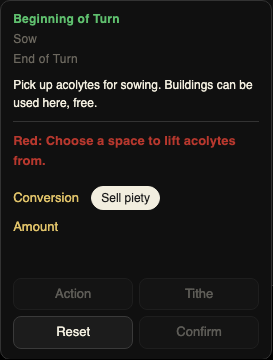
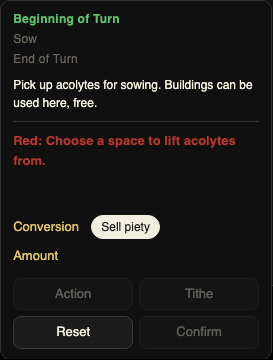
Keep relocation prompts visible after selection

diff --git a/tools/ui_debug/play_view_turn.js b/tools/ui_debug/play_view_turn.js
@@ -541,7 +541,9 @@
     var relocation = nextField === 'selected_position';
     // A relocation is a committed-step question too. Its server-written prompt belongs in the
     // grown prompt row, not a fixed-height answer row where it would escape into the controls.
-    var stepPrompt = activation || relocation;
+    var completedRelocation = live.length === 1 && live[0].kind === 'relocation'
+      && conversionChosen.length === (live[0].answers || []).length;
+    var stepPrompt = activation || relocation || completedRelocation;
     var relocationTargets = relocation ? offeredTurnStepValues(conversionChosen.length, live) : [];
     var piety = pietyIndex !== -1 && conversionChosen.length >= pietyIndex;
     var resource = amountIndex !== -1 && conversionChosen.length >= amountIndex;

diff --git a/tools/play_server.py b/tools/play_server.py
@@ -1767,25 +1767,31 @@ def _attach_turn_action_preview_effects(
                         break
         else:
             later_steps = steps[fee_index + 1 :]
-            attached = False
-            for step in reversed(later_steps):
-                if step["kind"] in {
-                    "resolution",
-                    "hire",
-                    "resource",
-                    "combination",
-                    "building",
-                }:
-                    step["resource_delta"] = resource_delta
-                    attached = True
-                    break
-            if not attached:
-                fee_step = steps[fee_index]
-                existing = fee_step.get("resource_delta", {})
-                fee_step["resource_delta"] = {
-                    resource: int(existing.get(resource, 0)) + int(resource_delta.get(resource, 0))
-                    for resource in COMBINATION_STOCKS
-                }
+            if not any(
+                "resource_delta" in step and step["kind"] != "ordination"
+                for step in later_steps
+            ):
+                attached = False
+                for step in reversed(later_steps):
+                    if step["kind"] in {
+                        "resolution",
+                        "hire",
+                        "resource",
+                        "combination",
+                        "building",
+                    }:
+                        step["resource_delta"] = resource_delta
+                        attached = True
+                        break
+                if not attached:
+                    fee_step = steps[fee_index]
+                    existing = fee_step.get("resource_delta", {})
+                    fee_step["resource_delta"] = {
+                        resource: (
+                            int(existing.get(resource, 0)) + int(resource_delta.get(resource, 0))
+                        )
+                        for resource in COMBINATION_STOCKS
+                    }
     building_id = effects.get("building_constructed")
     if building_id is not None:
         for step in steps:

diff --git a/tests/test_play_server.py b/tests/test_play_server.py
@@ -5190,6 +5190,46 @@ def test_minority_fee_precedes_construct_payment_and_leaves_every_engine_cost_ac
     }
 
 
+def test_minority_taxation_preview_delta_is_not_attached_to_take_nothing_twice() -> None:
+    scenario = load_scenario(SCENARIOS / "taxation_minor_cost_001.json")
+    actions = {
+        action_id(action): action
+        for action in legal_actions(scenario.state, scenario.config)
+        if isinstance(action, FullTurnAction)
+    }
+    before = scenario.state.player_state(scenario.state.active_player).resources
+    minority_taxation = [
+        (candidate, actions[candidate["action_id"]])
+        for candidate in play_server.turn_candidates(scenario.state, scenario.config)
+        if actions[candidate["action_id"]].resolution is TurnResolutionType.TAXATION
+        and any(step.get("minority_fee") for step in candidate["steps"])
+    ]
+
+    assert len(minority_taxation) == 3
+    for candidate, action in minority_taxation:
+        steps = candidate["steps"]
+        take_nothing = next(
+            step
+            for step in steps
+            if step["kind"] == "combination" and step["label"] == "take nothing"
+        )
+        assert take_nothing.get("resource_delta") == {"stone": 0, "silver": 0, "wheat": 0}
+
+        result = apply_action(scenario.state, action, scenario.config)
+        after = result.state.player_state(scenario.state.active_player).resources
+        actual_delta = {
+            resource: getattr(after, resource) - getattr(before, resource)
+            for resource in ("stone", "silver", "wheat")
+        }
+        preview_delta = {
+            resource: sum(
+                int(step.get("resource_delta", {}).get(resource, 0)) for step in steps
+            )
+            for resource in ("stone", "silver", "wheat")
+        }
+        assert preview_delta == actual_delta
+
+
 def test_minority_fee_is_a_category_blind_non_tithe_step_in_the_corpus(corpus_actions) -> None:
     fee_scenarios: set[str] = set()
     fees = 0

diff --git a/tests/test_play_view_clicks.py b/tests/test_play_view_clicks.py
@@ -2575,6 +2575,7 @@ def test_library_step_stages_and_confirms_abbey_with_preview_and_reset(page, ser
     _click_handle_centre(page, abbey.element_handle(), require_hit=True)
     page.wait_for_timeout(20)
     assert _confirm_enabled(page), "a complete Library Abbey relocation did not enable Confirm"
+    assert page.locator('[data-turn-step-activation-prompt="true"]').inner_text() == expected_prompt
     assert _visible_active_token_count(page, "abbey") == abbey_before + 1
     assert _lit_city_slots_for_player(page, active_player) == city_before - 1
     _screenshot_turn_prompt(page, SCREENSHOTS / "library-prompt-staged-abbey.png")
